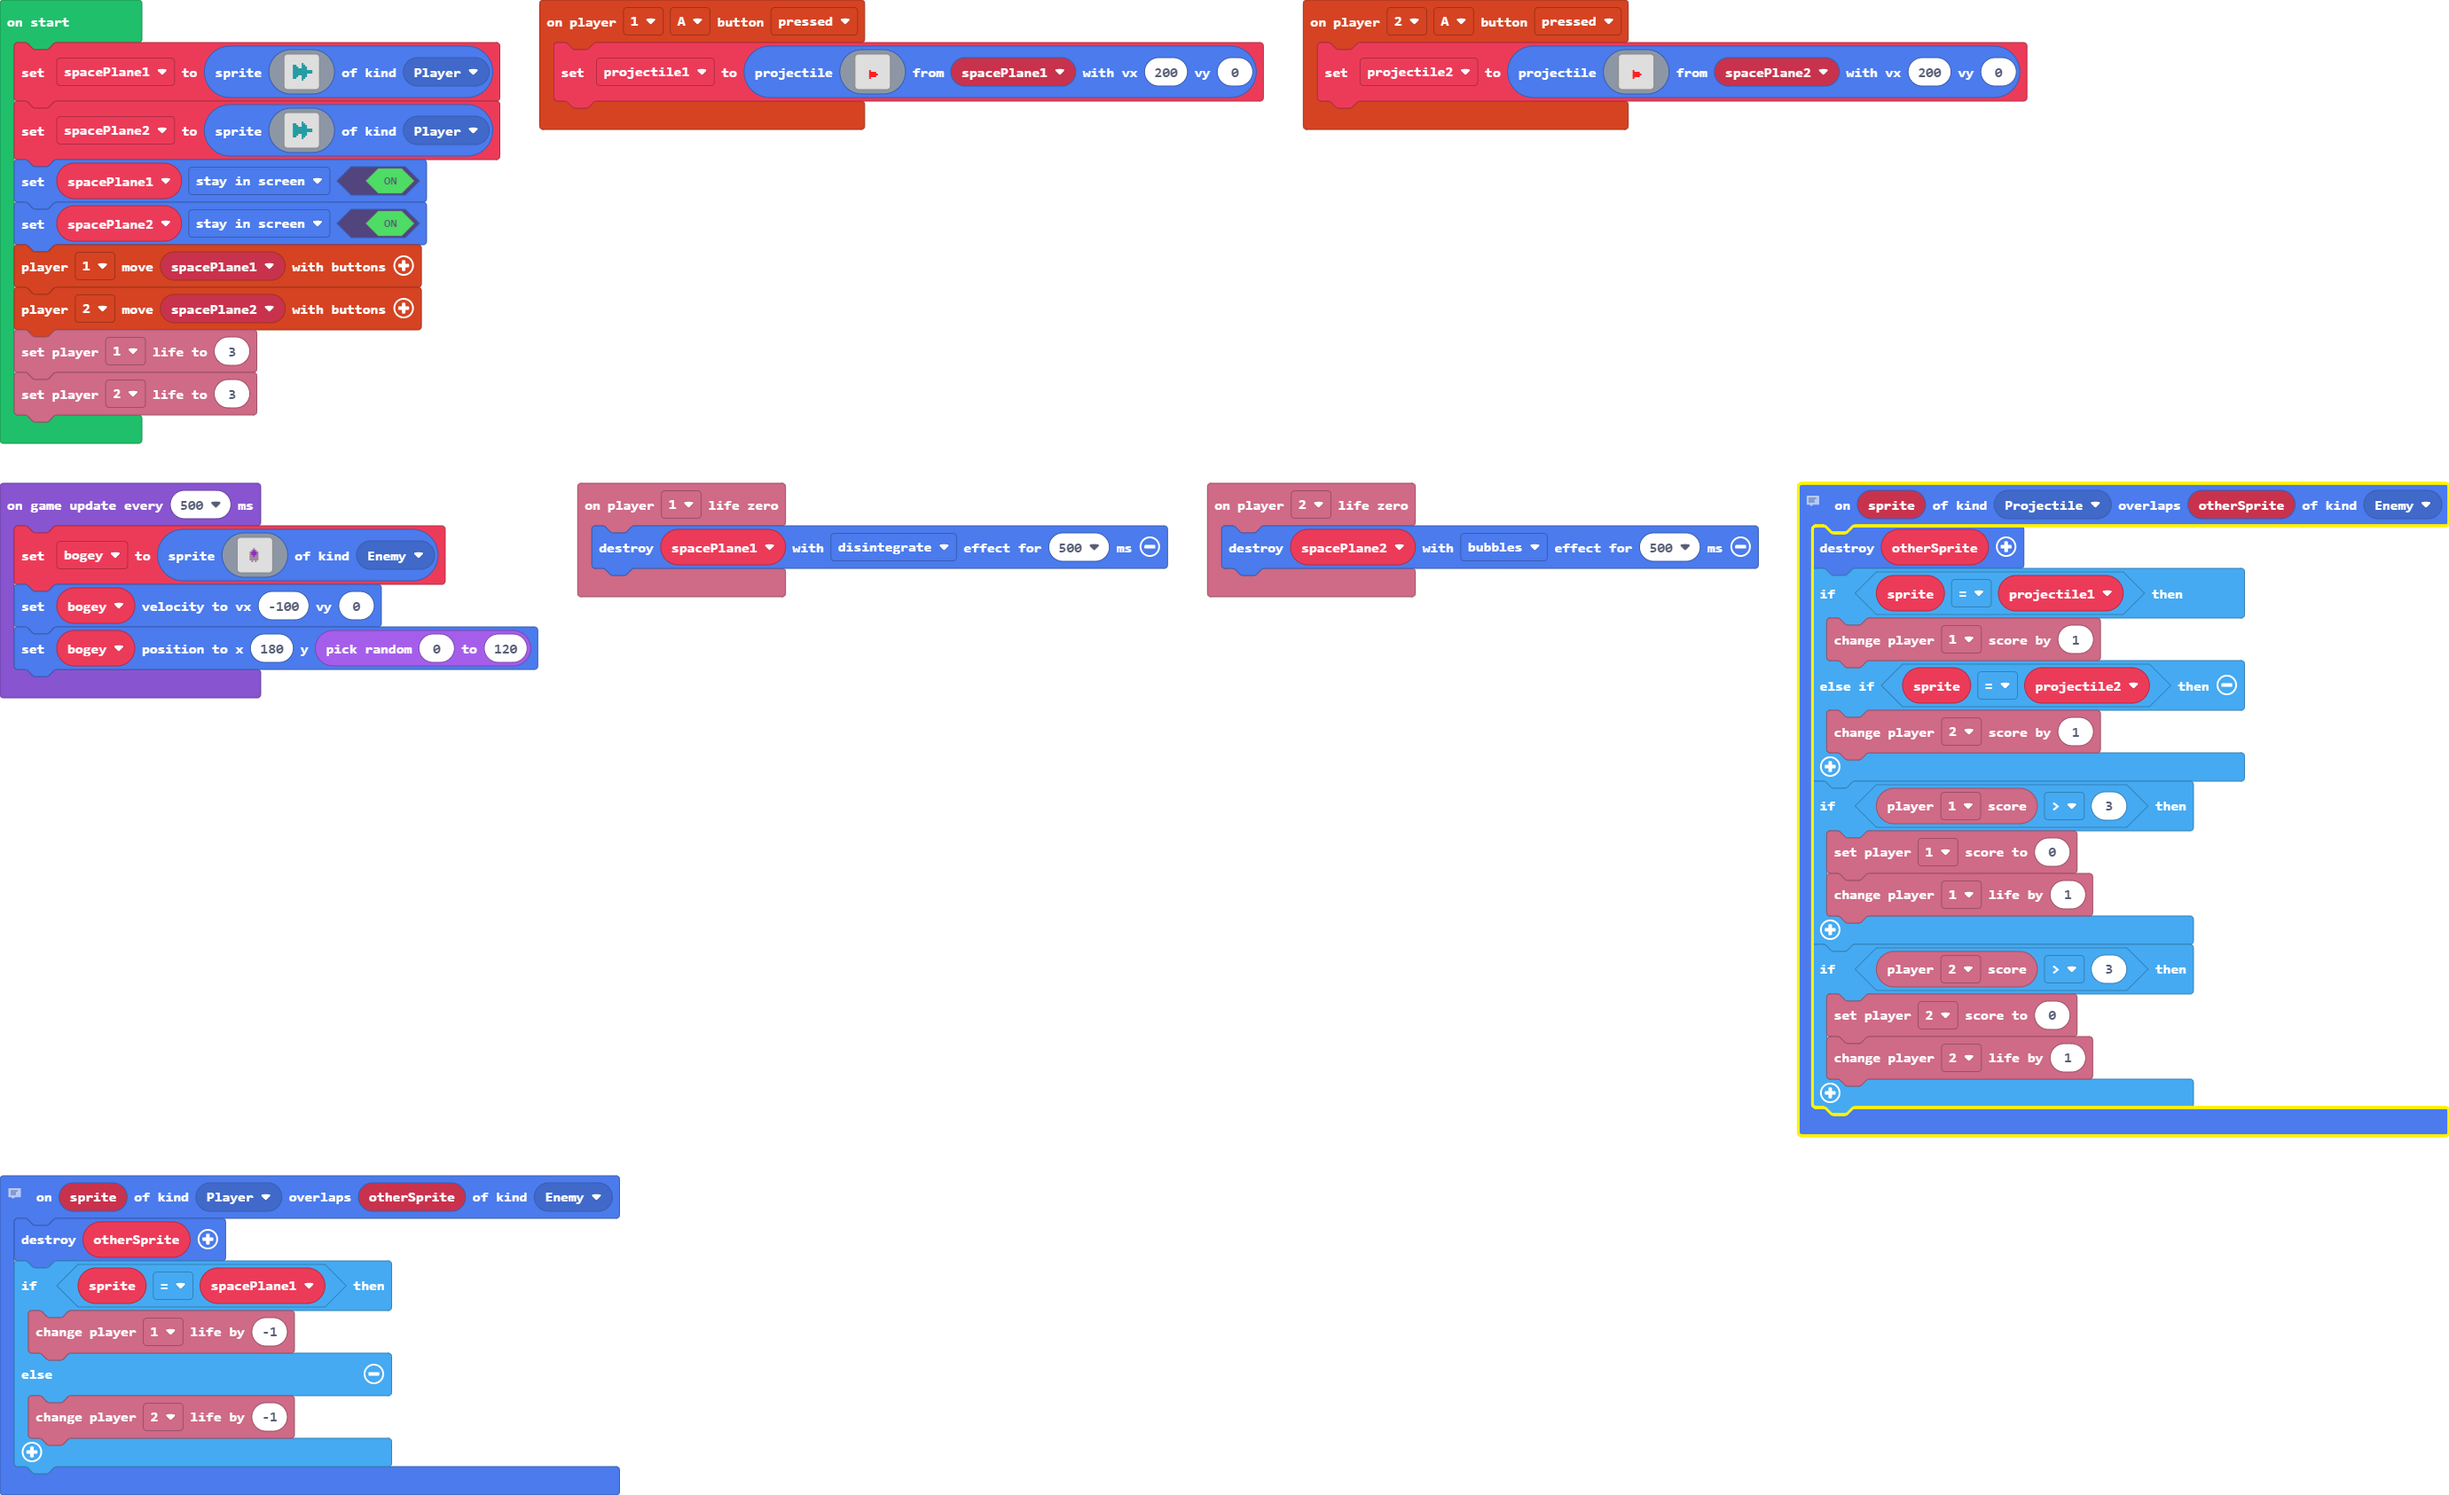
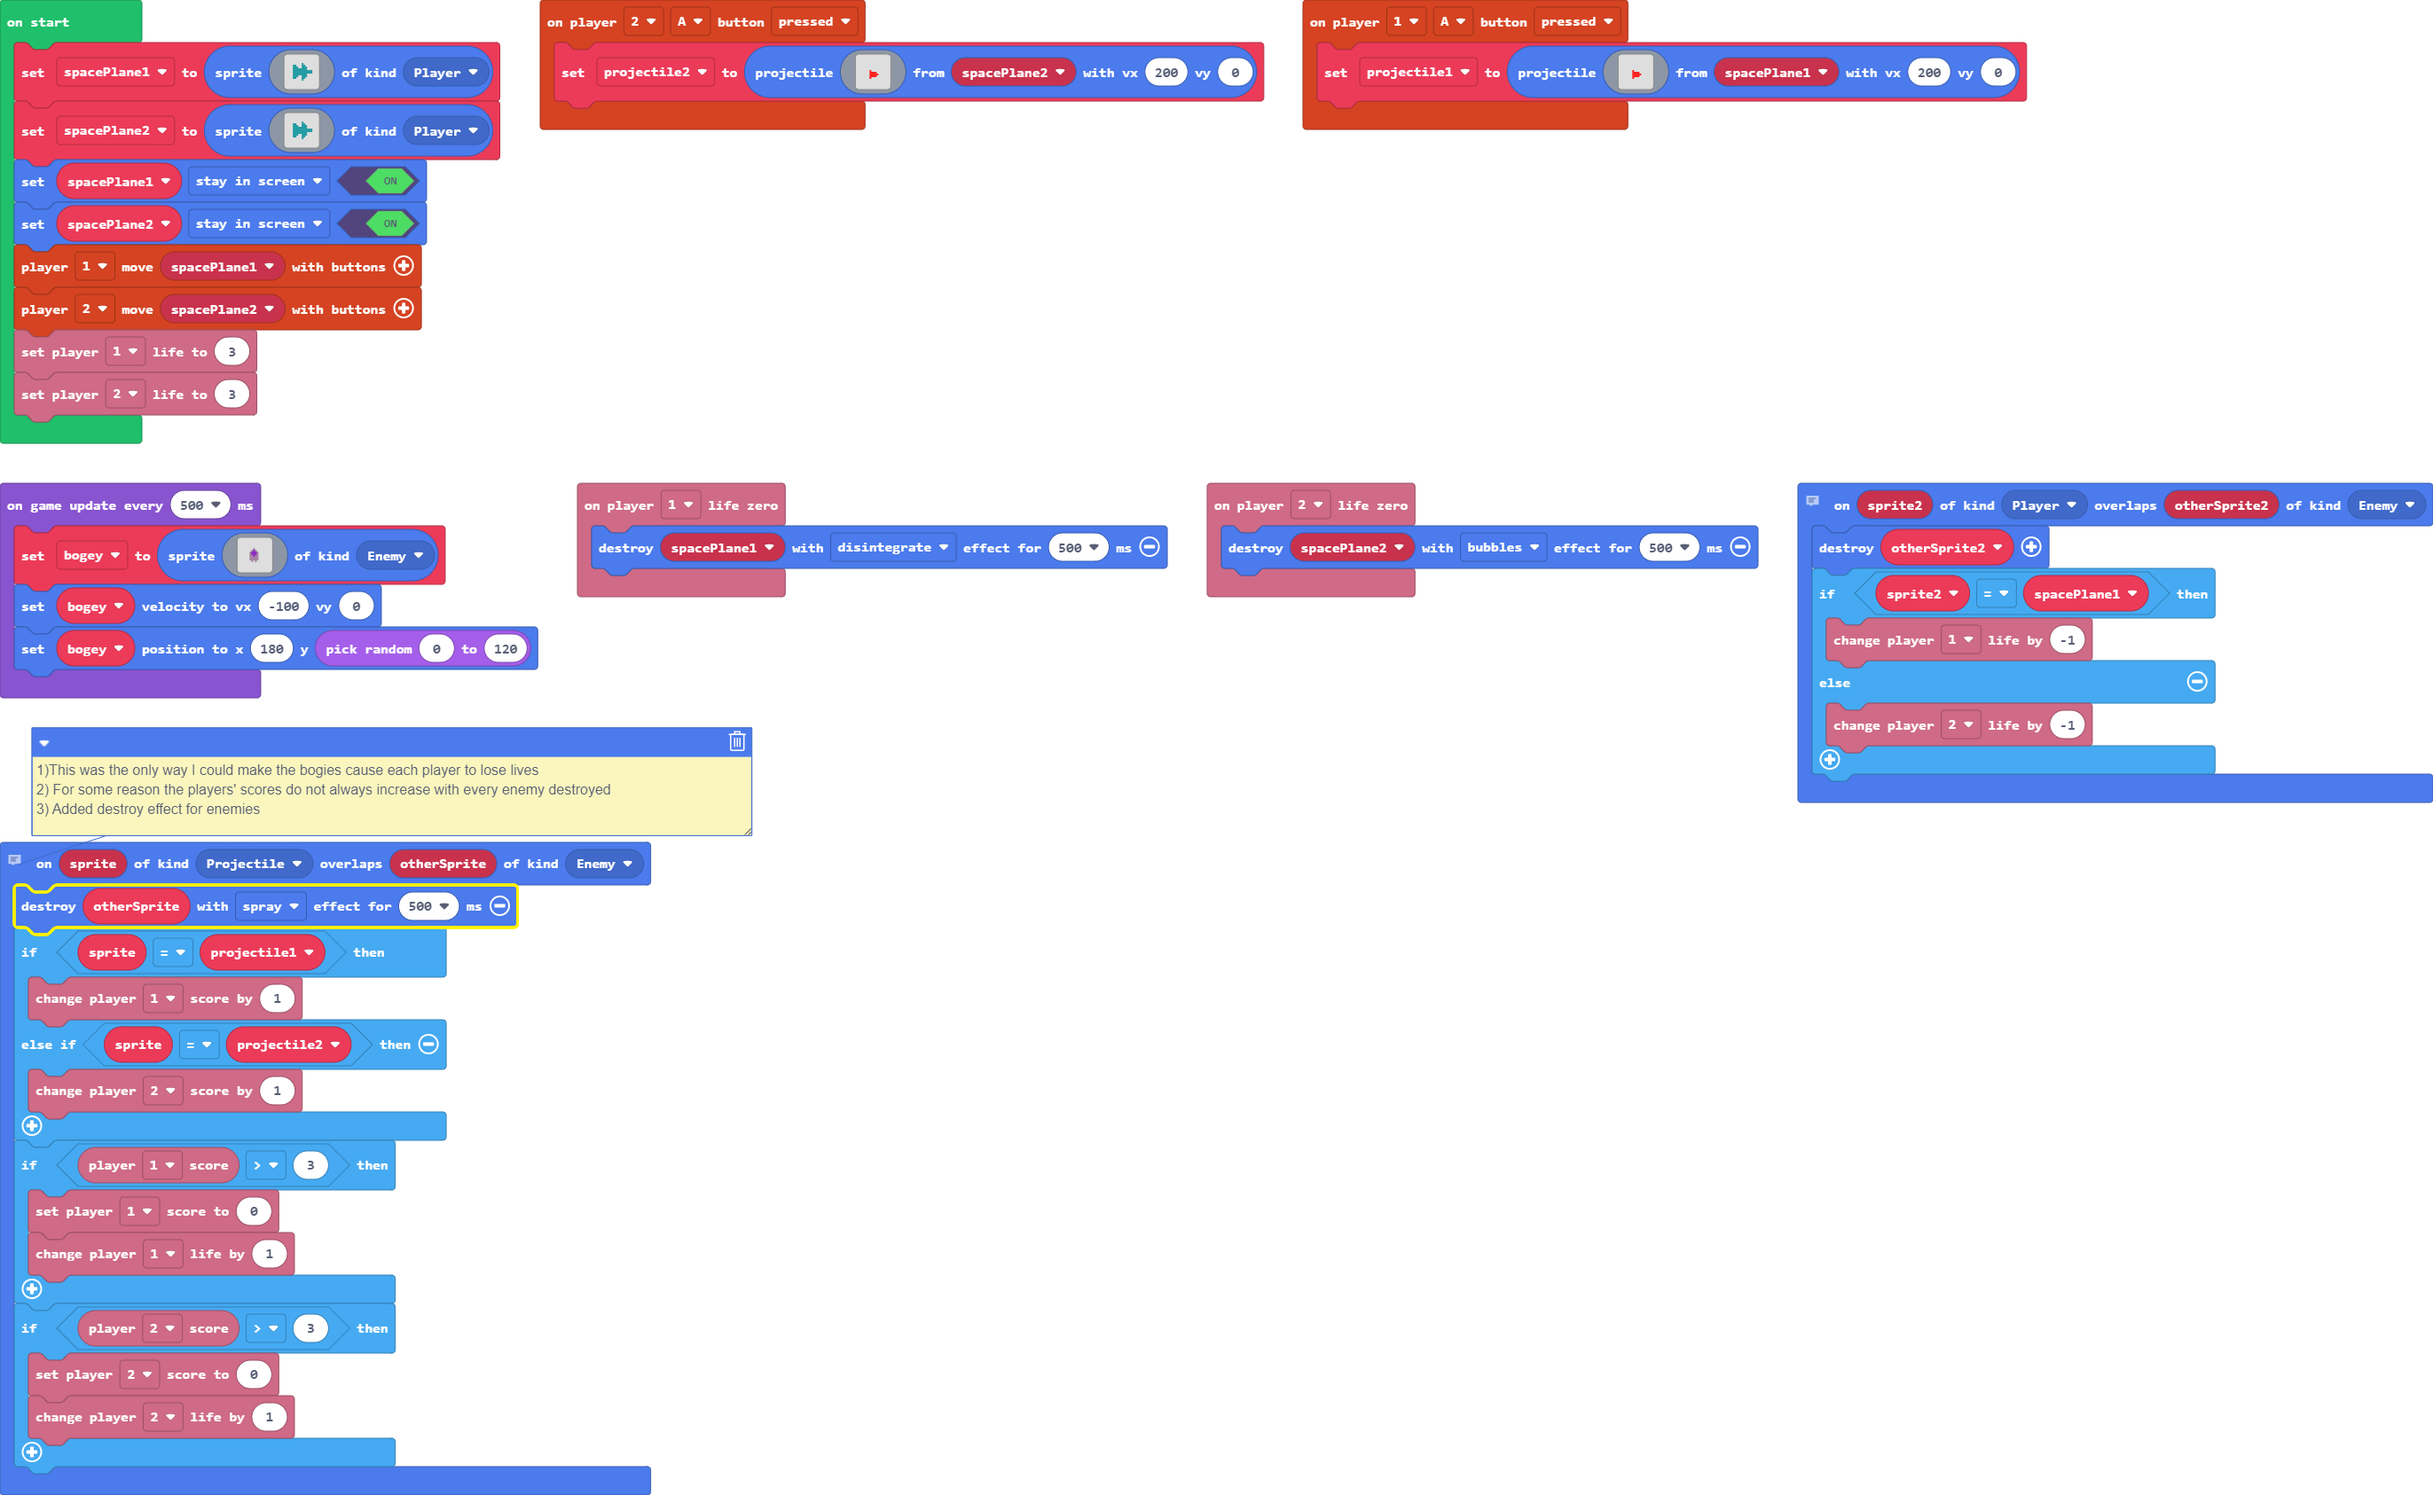
Added destroy effect for enemies

diff --git a/main.ts b/main.ts
@@ -18,6 +18,15 @@ controller.player2.onButtonEvent(ControllerButton.A, ControllerButtonEvent.Press
         . . . . . . . . . . . . . . . . 
         `, spacePlane2, 200, 0)
 })
+// This was the only way I could make the bogies cause each player to lose lives
+sprites.onOverlap(SpriteKind.Player, SpriteKind.Enemy, function (sprite2, otherSprite2) {
+    otherSprite2.destroy()
+    if (sprite2 == spacePlane1) {
+        info.player1.changeLifeBy(-1)
+    } else {
+        info.player2.changeLifeBy(-1)
+    }
+})
 controller.player1.onButtonEvent(ControllerButton.A, ControllerButtonEvent.Pressed, function () {
     projectile1 = sprites.createProjectileFromSprite(img`
         . . . . . . . . . . . . . . . . 
@@ -46,8 +55,9 @@ info.player2.onLifeZero(function () {
 })
 // 1)This was the only way I could make the bogies cause each player to lose lives
 // 2) For some reason the players' scores do not always increase with every enemy destroyed
+// 3) Added destroy effect for enemies
 sprites.onOverlap(SpriteKind.Projectile, SpriteKind.Enemy, function (sprite, otherSprite) {
-    otherSprite.destroy()
+    otherSprite.destroy(effects.spray, 500)
     if (sprite == projectile1) {
         info.player1.changeScoreBy(1)
     } else if (sprite == projectile2) {
@@ -60,15 +70,6 @@ sprites.onOverlap(SpriteKind.Projectile, SpriteKind.Enemy, function (sprite, oth
     if (info.player2.score() > 3) {
         info.player2.setScore(0)
         info.player2.changeLifeBy(1)
-    }
-})
-// This was the only way I could make the bogies cause each player to lose lives
-sprites.onOverlap(SpriteKind.Player, SpriteKind.Enemy, function (sprite, otherSprite) {
-    otherSprite.destroy()
-    if (sprite == spacePlane1) {
-        info.player1.changeLifeBy(-1)
-    } else {
-        info.player2.changeLifeBy(-1)
     }
 })
 let bogey: Sprite = null

diff --git a/main.py b/main.py
@@ -1,0 +1,163 @@
+def on_player2_button_a_pressed():
+    global projectile2
+    projectile2 = sprites.create_projectile_from_sprite(img("""
+            . . . . . . . . . . . . . . . . 
+                    . . . . . . . . . . . . . . . . 
+                    . . . . . . . . . . . . . . . . 
+                    . . . . . . . . . . . . . . . . 
+                    . . . . . . . . . . . . . . . . 
+                    . . . . . . . . . . . . . . . . 
+                    . . . . . . . . . . . . . . . . 
+                    . . . . . . 2 . . . . . . . . . 
+                    . . . . . . 2 2 2 2 . . . . . . 
+                    . . . . . . 2 2 2 2 2 . . . . . 
+                    . . . . . . 2 2 2 2 . . . . . . 
+                    . . . . . . 2 . . . . . . . . . 
+                    . . . . . . . . . . . . . . . . 
+                    . . . . . . . . . . . . . . . . 
+                    . . . . . . . . . . . . . . . . 
+                    . . . . . . . . . . . . . . . .
+        """),
+        spacePlane2,
+        200,
+        0)
+controller.player2.on_button_event(ControllerButton.A,
+    ControllerButtonEvent.PRESSED,
+    on_player2_button_a_pressed)
+
+def on_player1_button_a_pressed():
+    global projectile1
+    projectile1 = sprites.create_projectile_from_sprite(img("""
+            . . . . . . . . . . . . . . . . 
+                    . . . . . . . . . . . . . . . . 
+                    . . . . . . . . . . . . . . . . 
+                    . . . . . . . . . . . . . . . . 
+                    . . . . . . . . . . . . . . . . 
+                    . . . . . . . . . . . . . . . . 
+                    . . . . . . . . . . . . . . . . 
+                    . . . . . . 2 . . . . . . . . . 
+                    . . . . . . 2 2 2 2 . . . . . . 
+                    . . . . . . 2 2 2 2 2 . . . . . 
+                    . . . . . . 2 2 2 2 . . . . . . 
+                    . . . . . . 2 . . . . . . . . . 
+                    . . . . . . . . . . . . . . . . 
+                    . . . . . . . . . . . . . . . . 
+                    . . . . . . . . . . . . . . . . 
+                    . . . . . . . . . . . . . . . .
+        """),
+        spacePlane1,
+        200,
+        0)
+controller.player1.on_button_event(ControllerButton.A,
+    ControllerButtonEvent.PRESSED,
+    on_player1_button_a_pressed)
+
+def on_player1_life_zero():
+    sprites.destroy(spacePlane1, effects.disintegrate, 500)
+info.player1.on_life_zero(on_player1_life_zero)
+
+def on_player2_life_zero():
+    sprites.destroy(spacePlane2, effects.bubbles, 500)
+info.player2.on_life_zero(on_player2_life_zero)
+
+# 1)This was the only way I could make the bogies cause each player to lose lives
+# 2) For some reason the players' scores do not always increase with every enemy destroyed
+
+def on_on_overlap(sprite, otherSprite):
+    otherSprite.destroy()
+    if sprite == projectile1:
+        info.player1.change_score_by(1)
+    elif sprite == projectile2:
+        info.player2.change_score_by(1)
+    if info.player1.score() > 3:
+        info.player1.set_score(0)
+        info.player1.change_life_by(1)
+    if info.player2.score() > 3:
+        info.player2.set_score(0)
+        info.player2.change_life_by(1)
+sprites.on_overlap(SpriteKind.projectile, SpriteKind.enemy, on_on_overlap)
+
+# This was the only way I could make the bogies cause each player to lose lives
+
+def on_on_overlap2(sprite2, otherSprite2):
+    otherSprite2.destroy()
+    if sprite2 == spacePlane1:
+        info.player1.change_life_by(-1)
+    else:
+        info.player2.change_life_by(-1)
+sprites.on_overlap(SpriteKind.player, SpriteKind.enemy, on_on_overlap2)
+
+bogey: Sprite = None
+projectile1: Sprite = None
+projectile2: Sprite = None
+spacePlane2: Sprite = None
+spacePlane1: Sprite = None
+spacePlane1 = sprites.create(img("""
+        . . . . . . . . . . . . . . . . 
+            . . . . . . . . . . . . . . . . 
+            . . . . . . . . . . . . . . . . 
+            . . . . . . . . 6 . . . . . . . 
+            . . . 6 6 . . . 6 6 . . . . . . 
+            . . . 6 6 6 . . 6 6 6 . . . . . 
+            . . . 6 6 6 6 6 6 6 6 . . . . . 
+            . . . 6 6 6 6 6 6 6 6 6 6 6 . . 
+            . . . 6 6 6 6 6 6 6 6 6 6 6 . . 
+            . . . 6 6 6 6 6 6 6 6 . . . . . 
+            . . . 6 6 6 . . 6 6 6 . . . . . 
+            . . . 6 6 . . . 6 6 . . . . . . 
+            . . . . . . . . 6 . . . . . . . 
+            . . . . . . . . . . . . . . . . 
+            . . . . . . . . . . . . . . . . 
+            . . . . . . . . . . . . . . . .
+    """),
+    SpriteKind.player)
+spacePlane2 = sprites.create(img("""
+        . . . . . . . . . . . . . . . . 
+            . . . . . . . . . . . . . . . . 
+            . . . . . . . . . . . . . . . . 
+            . . . . . . . . 6 . . . . . . . 
+            . . . 6 6 . . . 6 6 . . . . . . 
+            . . . 6 6 6 . . 6 6 6 . . . . . 
+            . . . 6 6 6 6 6 6 6 6 . . . . . 
+            . . . 6 6 6 6 6 6 6 6 6 6 6 . . 
+            . . . 6 6 6 6 6 6 6 6 6 6 6 . . 
+            . . . 6 6 6 6 6 6 6 6 . . . . . 
+            . . . 6 6 6 . . 6 6 6 . . . . . 
+            . . . 6 6 . . . 6 6 . . . . . . 
+            . . . . . . . . 6 . . . . . . . 
+            . . . . . . . . . . . . . . . . 
+            . . . . . . . . . . . . . . . . 
+            . . . . . . . . . . . . . . . .
+    """),
+    SpriteKind.player)
+spacePlane1.set_flag(SpriteFlag.STAY_IN_SCREEN, True)
+spacePlane2.set_flag(SpriteFlag.STAY_IN_SCREEN, True)
+controller.player1.move_sprite(spacePlane1)
+controller.player2.move_sprite(spacePlane2)
+info.player1.set_life(3)
+info.player2.set_life(3)
+
+def on_update_interval():
+    global bogey
+    bogey = sprites.create(img("""
+            . . . . . . . . . . . . . . . . 
+                    . . . . . . . . . . . . . . . . 
+                    . . . . . . . . . . . . . . . . 
+                    . . . . . . . . . . . . . . . . 
+                    . . . . . . . b . . . . . . . . 
+                    . . . . . . b a b . . . . . . . 
+                    . . . . . b a a a b . . . . . . 
+                    . . . . . b a a a b . . . . . . 
+                    . . . . . b b a b b . . . . . . 
+                    . . . . . b b b b b . . . . . . 
+                    . . . . . b b b b b . . . . . . 
+                    . . . . . . b . b . . . . . . . 
+                    . . . . . . . . . . . . . . . . 
+                    . . . . . . . . . . . . . . . . 
+                    . . . . . . . . . . . . . . . . 
+                    . . . . . . . . . . . . . . . .
+        """),
+        SpriteKind.enemy)
+    bogey.set_velocity(-100, 0)
+    bogey.set_position(180, randint(0, 120))
+game.on_update_interval(500, on_update_interval)
